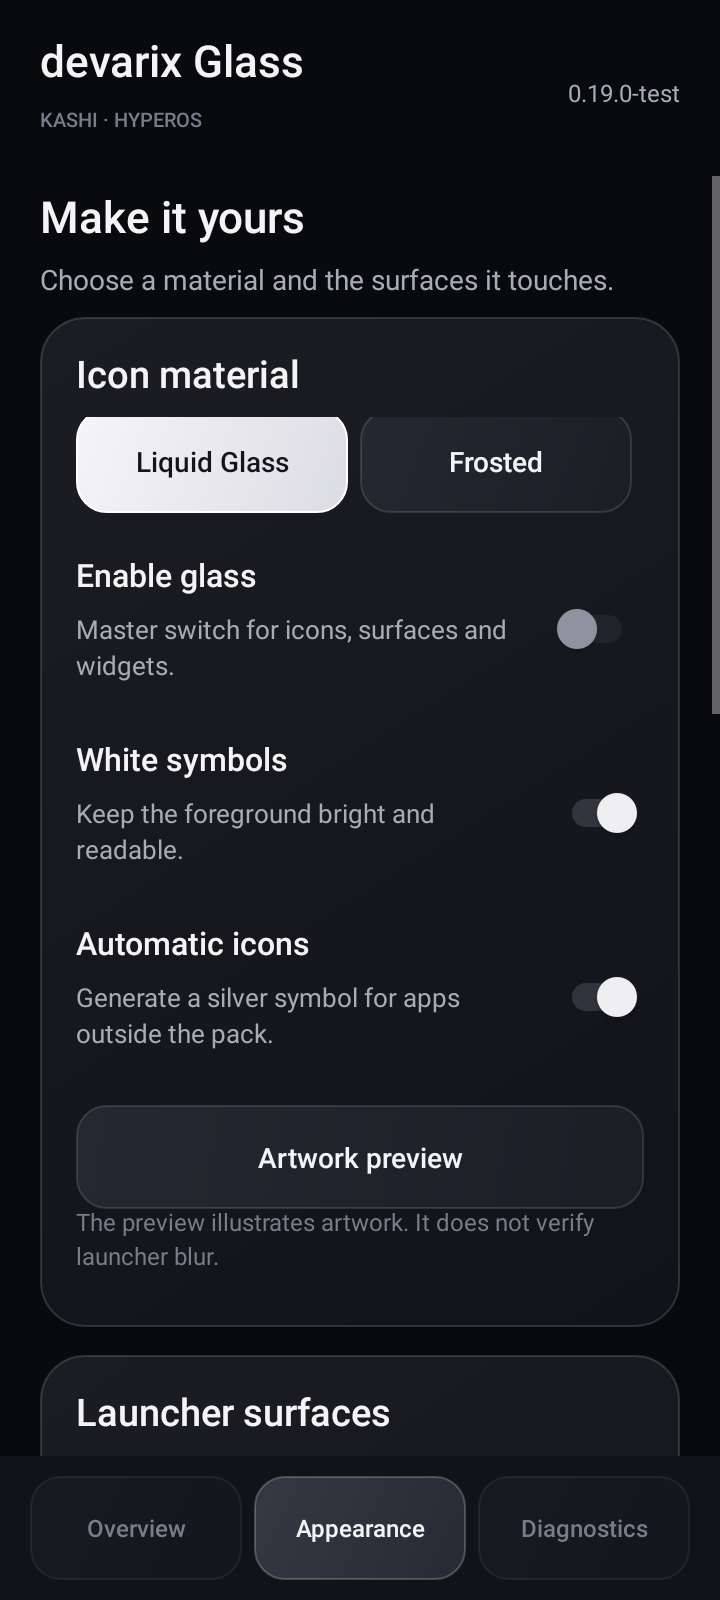
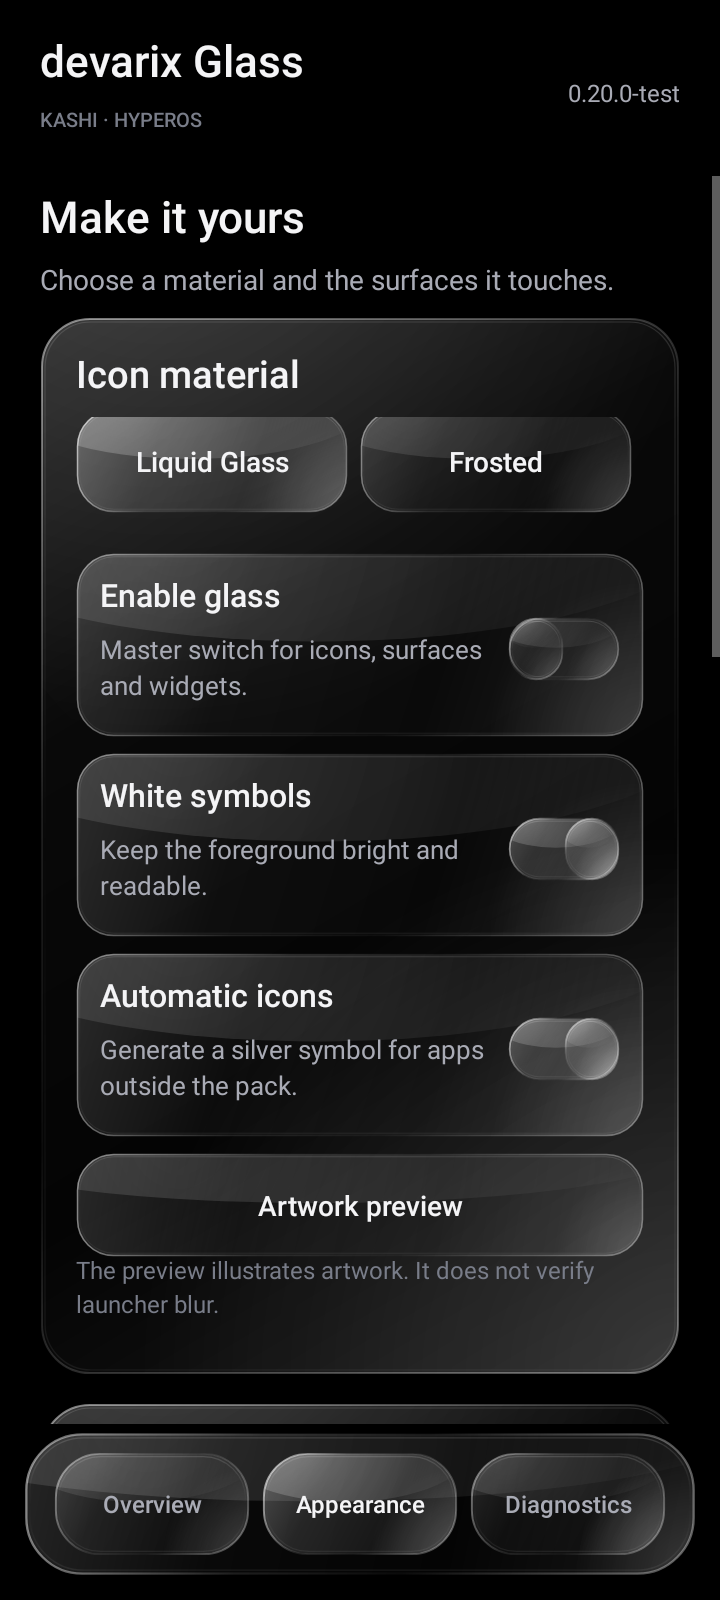
Style controller controls with liquid glass on pure black

diff --git a/launcher-addon/app/src/main/java/io/github/devarix/kashiglass/ControllerUi.java b/launcher-addon/app/src/main/java/io/github/devarix/kashiglass/ControllerUi.java
@@ -4,13 +4,13 @@ import android.content.Context;
 import android.content.res.ColorStateList;
 import android.graphics.*;
 import android.graphics.drawable.*;
-import android.text.TextUtils;
+
 import android.view.*;
 import android.widget.*;
 
 /** Native controls, restrained neutral surfaces, and no claim of simulated blur verification. */
 final class ControllerUi {
-    static final int INK=0xfff4f4f6,MUTED=0xffa9abb5,DIM=0xff797d89,BG=0xff090a0d;
+    static final int INK=0xfff4f4f6,MUTED=0xffa9abb5,DIM=0xff797d89,BG=0xff000000;
     final Context context;
     ControllerUi(Context context){this.context=context;}
     int dp(float value){return Math.round(value*context.getResources().getDisplayMetrics().density);}
@@ -18,18 +18,61 @@ final class ControllerUi {
     TextView text(LinearLayout parent,String value,int size,int color,boolean bold){TextView t=label(value,size,color,bold);LinearLayout.LayoutParams p=new LinearLayout.LayoutParams(-1,-2);p.bottomMargin=dp(10);parent.addView(t,p);return t;}
     LinearLayout column(){LinearLayout l=new LinearLayout(context);l.setOrientation(LinearLayout.VERTICAL);return l;}
     LinearLayout row(){LinearLayout l=new LinearLayout(context);l.setOrientation(LinearLayout.HORIZONTAL);l.setGravity(Gravity.CENTER_VERTICAL);return l;}
-    LinearLayout card(LinearLayout parent){LinearLayout c=column();c.setPadding(dp(18),dp(18),dp(18),dp(18));c.setBackground(surface(22,0xff1b1d23,0xff111318,0x25ffffff));LinearLayout.LayoutParams p=new LinearLayout.LayoutParams(-1,-2);p.bottomMargin=dp(14);parent.addView(c,p);return c;}
+    LinearLayout card(LinearLayout parent){LinearLayout c=column();c.setPadding(dp(18),dp(18),dp(18),dp(18));c.setBackground(glass(24,false));LinearLayout.LayoutParams p=new LinearLayout.LayoutParams(-1,-2);p.bottomMargin=dp(14);parent.addView(c,p);return c;}
     void section(LinearLayout parent,String title,String hint){text(parent,title,22,INK,true);if(hint!=null)text(parent,hint,14,MUTED,false);}
     void space(LinearLayout parent,int height){parent.addView(new View(context),new LinearLayout.LayoutParams(1,dp(height)));}
     void divider(LinearLayout parent){View v=new View(context);v.setBackgroundColor(0xff292c34);LinearLayout.LayoutParams p=new LinearLayout.LayoutParams(-1,dp(1));p.topMargin=dp(8);p.bottomMargin=dp(8);parent.addView(v,p);}
     GradientDrawable surface(int radius,int top,int bottom,int border){GradientDrawable d=new GradientDrawable(GradientDrawable.Orientation.TL_BR,new int[]{top,bottom});d.setCornerRadius(dp(radius));d.setStroke(dp(1),border);return d;}
-    Button button(String title,boolean primary){Button b=new Button(context);b.setText(title);b.setTextSize(14);b.setAllCaps(false);b.setTypeface(Typeface.create("sans-serif-medium",Typeface.NORMAL));b.setTextColor(primary?0xff14151a:INK);b.setMinHeight(dp(52));b.setMinimumHeight(dp(52));b.setPadding(dp(14),dp(12),dp(14),dp(12));GradientDrawable base=surface(15,primary?0xfff5f5f7:0xff252830,primary?0xffdcdde3:0xff1b1e25,primary?0xffffffff:0x20ffffff);b.setBackground(new RippleDrawable(ColorStateList.valueOf(primary?0x20000000:0x22ffffff),base,null));return b;}
+    Drawable glass(int radius,boolean emphasized){return new OpticalGlass(dp(radius),emphasized,0,0);}
+    private Drawable ripple(Drawable glass){return new RippleDrawable(ColorStateList.valueOf(0x20ffffff),glass,null);}
+    Button button(String title,boolean primary){Button b=new Button(context);b.setText(title);b.setTextSize(14);b.setAllCaps(false);b.setTypeface(Typeface.create("sans-serif-medium",Typeface.NORMAL));b.setTextColor(INK);b.setMinHeight(dp(52));b.setMinimumHeight(dp(52));b.setPadding(dp(14),dp(12),dp(14),dp(12));b.setBackground(ripple(glass(18,primary)));return b;}
     Button action(LinearLayout parent,String title,boolean primary){Button b=button(title,primary);LinearLayout.LayoutParams p=new LinearLayout.LayoutParams(-1,-2);p.topMargin=dp(8);parent.addView(b,p);return b;}
-    void navigation(Button button,boolean selected){button.setTextColor(selected?INK:DIM);button.setAlpha(1);button.setBackground(new RippleDrawable(ColorStateList.valueOf(0x22ffffff),surface(15,selected?0xff343944:0xff171a20,selected?0xff252a34:0xff13161c,selected?0x38ffffff:0x10ffffff),null));}
+    void navigation(Button button,boolean selected){button.setTextColor(selected?INK:MUTED);button.setAlpha(1);button.setBackground(ripple(glass(22,selected)));}
+    void navigationSurface(LinearLayout navigation){navigation.setBackground(glass(28,false));}
+    private Drawable switchPart(boolean thumb){
+        StateListDrawable states=new StateListDrawable();
+        states.addState(new int[]{android.R.attr.state_checked},new OpticalGlass(dp(20),true,dp(thumb?28:54),dp(thumb?28:32)));
+        states.addState(new int[]{},new OpticalGlass(dp(20),false,dp(thumb?28:54),dp(thumb?28:32)));
+        return states;
+    }
+    void slider(SeekBar slider){
+        slider.setThumbTintList(null);slider.setProgressTintList(null);slider.setProgressBackgroundTintList(null);
+        slider.setThumb(new OpticalGlass(dp(20),true,dp(24),dp(24)));
+        android.graphics.drawable.LayerDrawable track=new android.graphics.drawable.LayerDrawable(new Drawable[]{glass(8,false),new ClipDrawable(glass(8,true),Gravity.LEFT,ClipDrawable.HORIZONTAL)});
+        track.setId(0,android.R.id.background);track.setId(1,android.R.id.progress);slider.setProgressDrawable(track);slider.setMinimumHeight(dp(48));
+    }
     Switch toggle(LinearLayout parent,String title,String subtitle,boolean checked){
-        LinearLayout row=row();row.setMinimumHeight(dp(64));row.setPadding(0,dp(10),0,dp(10));LinearLayout copy=column();TextView name=text(copy,title,16,INK,true);text(copy,subtitle,13,MUTED,false);row.addView(copy,new LinearLayout.LayoutParams(0,-2,1));
-        Switch control=new Switch(context);control.setId(View.generateViewId());control.setChecked(checked);control.setContentDescription(title);name.setLabelFor(control.getId());control.setThumbTintList(new ColorStateList(new int[][]{new int[]{android.R.attr.state_checked},new int[]{}},new int[]{INK,0xff9296a2}));control.setTrackTintList(new ColorStateList(new int[][]{new int[]{android.R.attr.state_checked},new int[]{}},new int[]{0xff737b8b,0xff383d48}));control.setMinimumWidth(dp(52));control.setMinimumHeight(dp(48));row.addView(control,new LinearLayout.LayoutParams(-2,-2));row.setOnClickListener(v->control.performClick());parent.addView(row,new LinearLayout.LayoutParams(-1,-2));return control;
+        LinearLayout row=row();row.setMinimumHeight(dp(64));row.setPadding(dp(12),dp(12),dp(12),dp(8));row.setBackground(ripple(glass(18,false)));LinearLayout copy=column();TextView name=text(copy,title,16,INK,true);text(copy,subtitle,13,MUTED,false);row.addView(copy,new LinearLayout.LayoutParams(0,-2,1));
+        Switch control=new Switch(context);control.setId(View.generateViewId());control.setChecked(checked);control.setContentDescription(title);name.setLabelFor(control.getId());control.setThumbTintList(null);control.setTrackTintList(null);control.setSplitTrack(false);control.setThumbDrawable(switchPart(true));control.setTrackDrawable(switchPart(false));control.setMinimumWidth(dp(52));control.setMinimumHeight(dp(48));row.addView(control,new LinearLayout.LayoutParams(-2,-2));row.setOnClickListener(v->control.performClick());LinearLayout.LayoutParams option=new LinearLayout.LayoutParams(-1,-2);option.topMargin=dp(8);parent.addView(row,option);return control;
     }
     TextView metric(LinearLayout row,String title,String value){LinearLayout box=column();text(box,title,11,DIM,true);TextView number=text(box,value,15,INK,true);number.setMaxLines(2);row.addView(box,new LinearLayout.LayoutParams(0,-2,1));return number;}
+    /** Optical highlights over translucent neutral glass. No wallpaper capture or recursive blur. */
+    private static final class OpticalGlass extends Drawable {
+        private final Paint paint=new Paint(Paint.ANTI_ALIAS_FLAG);private final RectF frame=new RectF();
+        private final float radius;private final boolean bright;private final int width,height;private int opacity=255;
+        OpticalGlass(float radius,boolean bright,int width,int height){this.radius=radius;this.bright=bright;this.width=width;this.height=height;}
+        @Override public int getIntrinsicWidth(){return width>0?width:-1;}
+        @Override public int getIntrinsicHeight(){return height>0?height:-1;}
+        @Override public boolean getPadding(Rect padding){padding.set(0,0,0,0);return false;}
+        @Override public void draw(Canvas canvas){
+            Rect b=getBounds();if(b.isEmpty())return;float inset=Math.max(.75f,radius/24f),r=Math.min(radius,Math.min(b.width(),b.height())/2f);
+            frame.set(b.left+inset,b.top+inset,b.right-inset,b.bottom-inset);
+            int save=canvas.saveLayerAlpha(b.left,b.top,b.right,b.bottom,opacity);
+            paint.setStyle(Paint.Style.FILL);paint.setColor(Color.WHITE);
+            paint.setShader(new LinearGradient(frame.left,frame.top,frame.right,frame.bottom,new int[]{bright?0x48ffffff:0x25ffffff,bright?0x20ffffff:0x09ffffff,bright?0x13ffffff:0x04ffffff,bright?0x32ffffff:0x18ffffff},new float[]{0,.30f,.64f,1},Shader.TileMode.CLAMP));
+            canvas.drawRoundRect(frame,r,r,paint);
+            Path clip=new Path();clip.addRoundRect(frame,r,r,Path.Direction.CW);int clipped=canvas.save();canvas.clipPath(clip);
+            paint.setShader(new RadialGradient(frame.left+frame.width()*.18f,frame.top-frame.height()*.15f,Math.max(1,frame.width()*.9f),new int[]{bright?0x45ffffff:0x24ffffff,0x00ffffff},null,Shader.TileMode.CLAMP));canvas.drawOval(frame.left-frame.width()*.25f,frame.top-frame.height()*.7f,frame.right+frame.width()*.1f,frame.top+frame.height()*.48f,paint);
+            paint.setShader(new RadialGradient(frame.right,frame.bottom,Math.max(1,Math.min(frame.width(),frame.height())*.85f),new int[]{0x25ffffff,0x00ffffff},null,Shader.TileMode.CLAMP));canvas.drawRect(frame,paint);canvas.restoreToCount(clipped);
+            paint.setStyle(Paint.Style.STROKE);paint.setStrokeWidth(inset);
+            paint.setShader(new LinearGradient(frame.left,frame.top,frame.right,frame.bottom,new int[]{bright?0xb8ffffff:0x80ffffff,0x18ffffff,0x07ffffff,0x60ffffff},new float[]{0,.34f,.58f,1},Shader.TileMode.CLAMP));canvas.drawRoundRect(frame,r,r,paint);
+            frame.inset(inset*1.5f,inset*1.5f);paint.setStrokeWidth(inset*.6f);paint.setShader(new LinearGradient(frame.left,frame.top,frame.left,frame.bottom,new int[]{0x22ffffff,0x00ffffff,0x12ffffff},null,Shader.TileMode.CLAMP));canvas.drawRoundRect(frame,Math.max(0,r-inset),Math.max(0,r-inset),paint);
+            paint.setShader(null);paint.setStyle(Paint.Style.FILL);canvas.restoreToCount(save);
+        }
+        @Override public void setAlpha(int alpha){opacity=Math.max(0,Math.min(255,alpha));invalidateSelf();}
+        @Override public int getAlpha(){return opacity;}
+        @Override public void setColorFilter(ColorFilter filter){}
+        @Override public int getOpacity(){return PixelFormat.TRANSLUCENT;}
+    }
     View emblem(){return new View(context){final Paint p=new Paint(3);@Override protected void onDraw(Canvas c){float w=getWidth(),h=getHeight();p.setShader(new RadialGradient(w*.48f,h*.28f,h,new int[]{0x32ffffff,0x05ffffff,0x00000000},null,Shader.TileMode.CLAMP));c.drawOval(0,0,w,h,p);float side=Math.min(w,h)*.68f;RectF r=new RectF((w-side)/2,(h-side)/2,(w+side)/2,(h+side)/2);p.setShader(new LinearGradient(r.left,r.top,r.right,r.bottom,new int[]{0x48ffffff,0x06494952,0x238a8d98},null,Shader.TileMode.CLAMP));p.setStyle(Paint.Style.FILL);c.drawRoundRect(r,side*.27f,side*.27f,p);p.setShader(new LinearGradient(r.left,r.top,r.right,r.bottom,new int[]{0xb0ffffff,0x06ffffff,0x70ffffff},null,Shader.TileMode.CLAMP));p.setStyle(Paint.Style.STROKE);p.setStrokeWidth(dp(1));c.drawRoundRect(r,side*.27f,side*.27f,p);p.setShader(null);p.setStyle(Paint.Style.FILL);p.setColor(0xfff4f4f6);float cx=w/2,cy=h/2;Path star=new Path();star.moveTo(cx,cy-side*.27f);star.quadTo(cx+side*.05f,cy-side*.04f,cx+side*.27f,cy);star.quadTo(cx+side*.05f,cy+side*.05f,cx,cy+side*.27f);star.quadTo(cx-side*.05f,cy+side*.05f,cx-side*.27f,cy);star.quadTo(cx-side*.05f,cy-side*.05f,cx,cy-side*.27f);c.drawPath(star,p);}};}
 }

diff --git a/launcher-addon/app/src/main/java/io/github/devarix/kashiglass/SettingsActivity.java b/launcher-addon/app/src/main/java/io/github/devarix/kashiglass/SettingsActivity.java
@@ -30,7 +30,7 @@ public final class SettingsActivity extends Activity {
         LinearLayout root=ui.column();root.setBackgroundColor(ControllerUi.BG);root.setFitsSystemWindows(true);
         LinearLayout header=ui.row();header.setPadding(dp(20),dp(18),dp(20),dp(12));LinearLayout brand=ui.column();ui.text(brand,"devarix Glass",22,ControllerUi.INK,true);ui.text(brand,"KASHI · HYPEROS",10,ControllerUi.DIM,true);header.addView(brand,new LinearLayout.LayoutParams(0,-2,1));TextView version=ui.label(BuildConfig.VERSION_NAME,12,ControllerUi.MUTED,false);header.addView(version);root.addView(header);
         scroll=new ScrollView(this);scroll.setClipToPadding(false);scroll.setFillViewport(true);body=ui.column();int margin=Math.max(20,(getResources().getConfiguration().screenWidthDp-620)/2);body.setPadding(dp(margin),dp(8),dp(margin),dp(24));scroll.addView(body,new ScrollView.LayoutParams(-1,-2));root.addView(scroll,new LinearLayout.LayoutParams(-1,0,1));
-        LinearLayout nav=ui.row();nav.setPadding(dp(12),dp(10),dp(12),dp(10));nav.setBackgroundColor(0xff111318);String[] titles={"Overview","Appearance","Diagnostics"};for(int i=0;i<3;i++){final int tab=i;Button button=ui.button(titles[i],false);button.setTextSize(12);button.setTag("tab:"+i);button.setContentDescription(titles[i]);navigation[i]=button;LinearLayout.LayoutParams params=new LinearLayout.LayoutParams(0,-2,1);params.setMargins(dp(3),0,dp(3),0);nav.addView(button,params);button.setOnClickListener(v->renderTab(tab));}root.addView(nav);setContentView(root);
+        LinearLayout nav=ui.row();nav.setPadding(dp(12),dp(10),dp(12),dp(10));ui.navigationSurface(nav);String[] titles={"Overview","Appearance","Diagnostics"};for(int i=0;i<3;i++){final int tab=i;Button button=ui.button(titles[i],false);button.setTextSize(12);button.setTag("tab:"+i);button.setContentDescription(titles[i]);navigation[i]=button;LinearLayout.LayoutParams params=new LinearLayout.LayoutParams(0,-2,1);params.setMargins(dp(3),0,dp(3),0);nav.addView(button,params);button.setOnClickListener(v->renderTab(tab));}LinearLayout.LayoutParams navParams=new LinearLayout.LayoutParams(-1,-2);navParams.setMargins(dp(12),dp(4),dp(12),dp(12));root.addView(nav,navParams);setContentView(root);
         getContentResolver().registerContentObserver(android.net.Uri.parse("content://"+GlassConfig.AUTHORITY+"/status"),false,observer);renderTab(state==null?0:state.getInt("tab",0));
     }
     private void renderTab(int tab){
@@ -53,7 +53,7 @@ public final class SettingsActivity extends Activity {
         ui.section(body,"Make it yours","Choose a material and the surfaces it touches.");LinearLayout icons=ui.card(body);ui.text(icons,"Icon material",19,ControllerUi.INK,true);LinearLayout choices=ui.row();String[] names={"Liquid Glass","Frosted"};for(int i=0;i<2;i++){final String style=i==0?"liquid":"frosted";Button pick=ui.button(names[i],style.equals(prefs.getString("style","liquid")));LinearLayout.LayoutParams params=new LinearLayout.LayoutParams(0,-2,1);params.setMargins(0,0,dp(6),dp(8));choices.addView(pick,params);pick.setOnClickListener(v->{prefs.edit().putString("style",style).commit();changed();renderTab(1);});}icons.addView(choices);
         iconsSwitch=toggle(icons,"Enable glass","Master switch for icons, surfaces and widgets.","icons");toggle(icons,"White symbols","Keep the foreground bright and readable.","white_symbols");toggle(icons,"Automatic icons","Generate a silver symbol for apps outside the pack.","automatic");ui.action(icons,"Artwork preview",false).setOnClickListener(v->startActivity(new Intent(this,PreviewActivity.class)));ui.text(icons,"The preview illustrates artwork. It does not verify launcher blur.",12,ControllerUi.DIM,false);
         LinearLayout surfaces=ui.card(body);ui.text(surfaces,"Launcher surfaces",19,ControllerUi.INK,true);toggle(surfaces,"Dock","The shared glass material behind your dock.","dock_glass");toggle(surfaces,"Search & page pill","Native controls, with a Search-sized page pill.","search_glass");toggle(surfaces,"App drawer","Glass behind the grid; native scrolling and search.","drawer_glass");toggle(surfaces,"Clock & weather","Live backdrop requested; provider content retained.","widget_glass");
-        LinearLayout backdrop=ui.card(body);ui.text(backdrop,"Backdrop",19,ControllerUi.INK,true);toggle(backdrop,"Live screen backdrop","For icons and launcher surfaces. Off uses a still wallpaper lens. Widgets request live mode independently.","screen_match");blurSwitch=toggle(backdrop,"Backdrop blur","Requires Xiaomi firmware support. An unavailable live backend leaves a clear rim.","blur");TextView value=ui.text(backdrop,"Blur strength · "+GlassConfig.radius(prefs.getInt("radius",24)),16,ControllerUi.INK,true);SeekBar strength=new SeekBar(this);strength.setContentDescription("Blur strength");strength.setThumbTintList(android.content.res.ColorStateList.valueOf(ControllerUi.INK));strength.setProgressTintList(android.content.res.ColorStateList.valueOf(ControllerUi.INK));strength.setProgressBackgroundTintList(android.content.res.ColorStateList.valueOf(0xff424751));strength.setMax(52);strength.setProgress(GlassConfig.radius(prefs.getInt("radius",24))-8);backdrop.addView(strength);strength.setOnSeekBarChangeListener(new SeekBar.OnSeekBarChangeListener(){public void onProgressChanged(SeekBar s,int progress,boolean user){value.setText("Blur strength · "+(progress+8));}public void onStartTrackingTouch(SeekBar s){}public void onStopTrackingTouch(SeekBar s){prefs.edit().putInt("radius",s.getProgress()+8).commit();changed();}});
+        LinearLayout backdrop=ui.card(body);ui.text(backdrop,"Backdrop",19,ControllerUi.INK,true);toggle(backdrop,"Live screen backdrop","For icons and launcher surfaces. Off uses a still wallpaper lens. Widgets request live mode independently.","screen_match");blurSwitch=toggle(backdrop,"Backdrop blur","Requires Xiaomi firmware support. An unavailable live backend leaves a clear rim.","blur");TextView value=ui.text(backdrop,"Blur strength · "+GlassConfig.radius(prefs.getInt("radius",24)),16,ControllerUi.INK,true);SeekBar strength=new SeekBar(this);strength.setContentDescription("Blur strength");ui.slider(strength);strength.setMax(52);strength.setProgress(GlassConfig.radius(prefs.getInt("radius",24))-8);backdrop.addView(strength);strength.setOnSeekBarChangeListener(new SeekBar.OnSeekBarChangeListener(){public void onProgressChanged(SeekBar s,int progress,boolean user){value.setText("Blur strength · "+(progress+8));}public void onStartTrackingTouch(SeekBar s){}public void onStopTrackingTouch(SeekBar s){prefs.edit().putInt("radius",s.getProgress()+8).commit();changed();}});
         LinearLayout advanced=ui.card(body);Button expand=ui.action(advanced,"Advanced options",false);LinearLayout extra=ui.column();extra.setVisibility(View.GONE);advanced.addView(extra);toggle(extra,"Static wallpaper access via root","Optional fallback for the wallpaper lens. Live widgets do not use this wallpaper tile.","root_wallpaper");expand.setOnClickListener(v->{boolean show=extra.getVisibility()!=View.VISIBLE;extra.setVisibility(show?View.VISIBLE:View.GONE);expand.setText(show?"Hide advanced options":"Advanced options");});
     }
     private void diagnostics(){

diff --git a/launcher-addon/README.md b/launcher-addon/README.md
@@ -2,6 +2,14 @@
 
 Experimental LSPosed add-on for **Kashi HyperOS Launcher V7.5 on HyperOS 3**. Adds **Glass icons (devarix)** to the launcher's Icons settings, with two materials and 700 icon/activity mappings.
 
+## 0.20.0 — Black liquid-glass controller
+
+The controller uses a pure black canvas with neutral translucent glass cards, individual option rows, reflective switch tracks/thumbs, glass buttons, blur-strength control and a floating glass bottom navigation pill. Checked and selected controls have stronger highlights; native switch behavior, ripples, labels, preference persistence and accessibility remain. This is controller glass styling, not a claim of compositor blur or optical refraction against its plain black background.
+
+Launcher icon artwork, search/dock/drawer/widget materials and animation hooks are unchanged from 0.19.0. The supplied Weather trace confirms 0.19.0 loaded and glass-owned field/slot drawables immediately after completion and on the next frame. It does not identify any other layer displaying stock artwork or establish visual animation success.
+
+Verification: 77 unit tests, 216 Android runtime cases across API 33/35, lint, asset and signature validation. Screenshots are rendered from the native controller UI. Install/reboot and refresh Overview to confirm loaded hook **0.20.0-test**. See [signing/update limits](SIGNING.md).
+
 ## 0.19.0 — Controller redesign and clock engine fixes
 
 The controller now has Overview, Appearance and Diagnostics tabs, a neutral dark design, clear master/surface controls, and separate installed-app and loaded-hook versions. Cached hook information is marked unconfirmed until a fresh reply arrives. Restart feedback survives tab changes and rotation; expired requests do not report success. The focused animation report keeps return-state logs and filters unrelated widget render messages. Existing material preferences are preserved.

diff --git a/launcher-addon/RELEASE_NOTES.md b/launcher-addon/RELEASE_NOTES.md
@@ -1,5 +1,13 @@
 Developer: **devarix**
 
+## 0.20.0 — Black liquid-glass controller
+
+The controller uses a pure black canvas with neutral translucent glass cards, individual option rows, reflective switch tracks/thumbs, glass buttons, blur-strength control and a floating glass bottom navigation pill. Checked and selected controls have stronger highlights; native switch behavior, ripples, labels, preference persistence and accessibility remain. This is controller glass styling, not a claim of compositor blur or optical refraction against its plain black background.
+
+Launcher icon artwork, search/dock/drawer/widget materials and animation hooks are unchanged from 0.19.0. The supplied Weather trace confirms 0.19.0 loaded and glass-owned field/slot drawables immediately after completion and on the next frame. It does not identify any other layer displaying stock artwork or establish visual animation success.
+
+Verification: 77 unit tests, 216 Android runtime cases across API 33/35, lint, asset and signature validation. Screenshots are rendered from the native controller UI. Install/reboot and refresh Overview to confirm loaded hook **0.20.0-test**. See [signing/update limits](SIGNING.md).
+
 ## 0.19.0 — Controller redesign and clock engine fixes
 
 The controller now has Overview, Appearance and Diagnostics tabs, a neutral dark design, clear master/surface controls, and separate installed-app and loaded-hook versions. Cached hook information is marked unconfirmed until a fresh reply arrives. Restart feedback survives tab changes and rotation; expired requests do not report success. The focused animation report keeps return-state logs and filters unrelated widget render messages. Existing material preferences are preserved.

diff --git a/README.md b/README.md
@@ -1,4 +1,4 @@
-**Latest launcher test:** [0.19.0 APK and source](https://github.com/OlahDavidXdd/glass-ximi/releases/tag/kashi-glass-addon-v0.19.0-test) · Redesigned controller, reflected clock-engine coverage, stable widget root ownership and native blur request checks. Remaining phone animation flash is unverified. [Build audit](launcher-addon/AUDIT.md) · [Signing/update limits](launcher-addon/SIGNING.md). Restart/reboot and verify **Loaded hook: 0.19.0-test**.
+**Latest launcher test:** [0.20.0 APK, source and screenshots](https://github.com/OlahDavidXdd/glass-ximi/releases/tag/kashi-glass-addon-v0.20.0-test) · Pure-black liquid-glass controller, including switches, options and bottom navigation. Launcher effects retained from 0.19.0; remaining phone animation flash is unverified. [Build audit](launcher-addon/AUDIT.md) · [Signing/update limits](launcher-addon/SIGNING.md). Restart/reboot and refresh the loaded hook version.
 
 **Phone-free verification:** [Android native-graphics test suite](verification/android-runtime) · [Run/results](https://github.com/OlahDavidXdd/glass-ximi/actions/workflows/verify-android-runtime.yml). Verifies snapshot pixel ownership, transparency and fades on API 33/35; HyperOS/LSPosed end-to-end animations remain outside this host runtime.
 

diff --git a/launcher-addon/AUDIT.md b/launcher-addon/AUDIT.md
@@ -1,3 +1,9 @@
+# 0.20.0: controller-only glass styling
+
+Pure-black controller background; native custom Canvas glass surfaces for cards/options/buttons, state-list switch thumb/track, slider and floating bottom navigation. No launcher shader, PNG assets, target resolution, widget engine hooks or animation code changes. Existing 77 unit and 216 runtime cases retained, including real native UI screenshot rendering and preference/restart/tab behavior.
+
+The user Weather trace on 0.19.0 reports `field_owned=true slot_owned=true hidden=false alpha=255` at completion and next-frame checks. This rules out an unowned source field/slot at those sampled moments for that view only; it cannot identify pixels shown by other layers or exclude later native changes. No animation behavior fix is claimed in this UI release.
+
 # 0.19.0: controller, clock ownership and native request checks
 
 AwesomeClock's reflected `mRoot`/`mAwesomeView` path was missing from the prior discovery. Both MAML namespaces and actual root class loaders are covered. Root ownership is canonicalized to the render child and old aliases cannot detach a new owner. Six added Android cases verify these boundaries across API 33/35 using verified API-shaped fixtures. Real engine dispatch still needs a phone.
